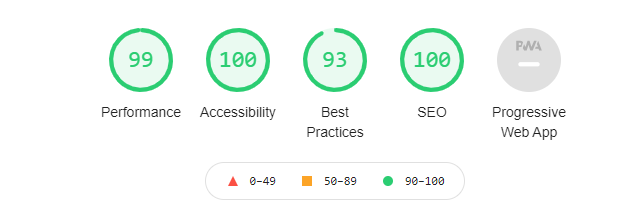
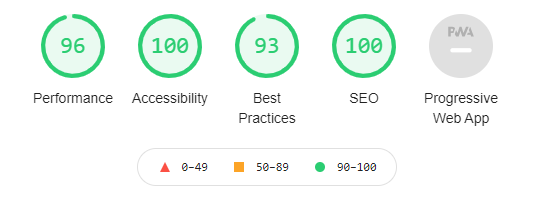
Updated lighthouse test results, fixed link to readme file in testing.md, added to fixed bugs and known issues sections in testing.md.

diff --git a/docs/readme/testing.md b/docs/readme/testing.md
@@ -1,4 +1,4 @@
-Go back to original [document](https://github.com/JuanBrachoDev/DnD-Roller/tree/master/docs/readme/readme.md).
+Go back to original [document](https://github.com/JuanBrachoDev/DnD-Roller/tree/master/readme.md).
 
 ### Validation
 
@@ -128,8 +128,12 @@ The following features were tested for **contact.html**:
 -   Checkboxes in character sheet weren't resizing according to their set style in CSS.
        > The checkbox and the text input were arranged using the grid design at first. Had to remove the **.col** classes as bootstrap was overriding the local styles. 
 
+-   Rolls would not work if a new user tried them without entering stats in **character-sheet.html**.
+       > Bug happened because the rolls would try fetch a 'null' character. The `loadCharacter()` function was created so it checked if a character was saved upon loading the page, and created a blank character if none was found.
+
 ### Known Bugs
 
 ---
 
 -   The tutorial tooltip sometimes clips off the viewport on smaller devices after highlighting an element that might be close to the edge of the screen.
+-  The checkboxes and text inputs within the Skills section in **character-sheet.html** sometimes trigger whenever an area close to the respective fields are clicked, instead of triggering only while interacting with the field itself.
